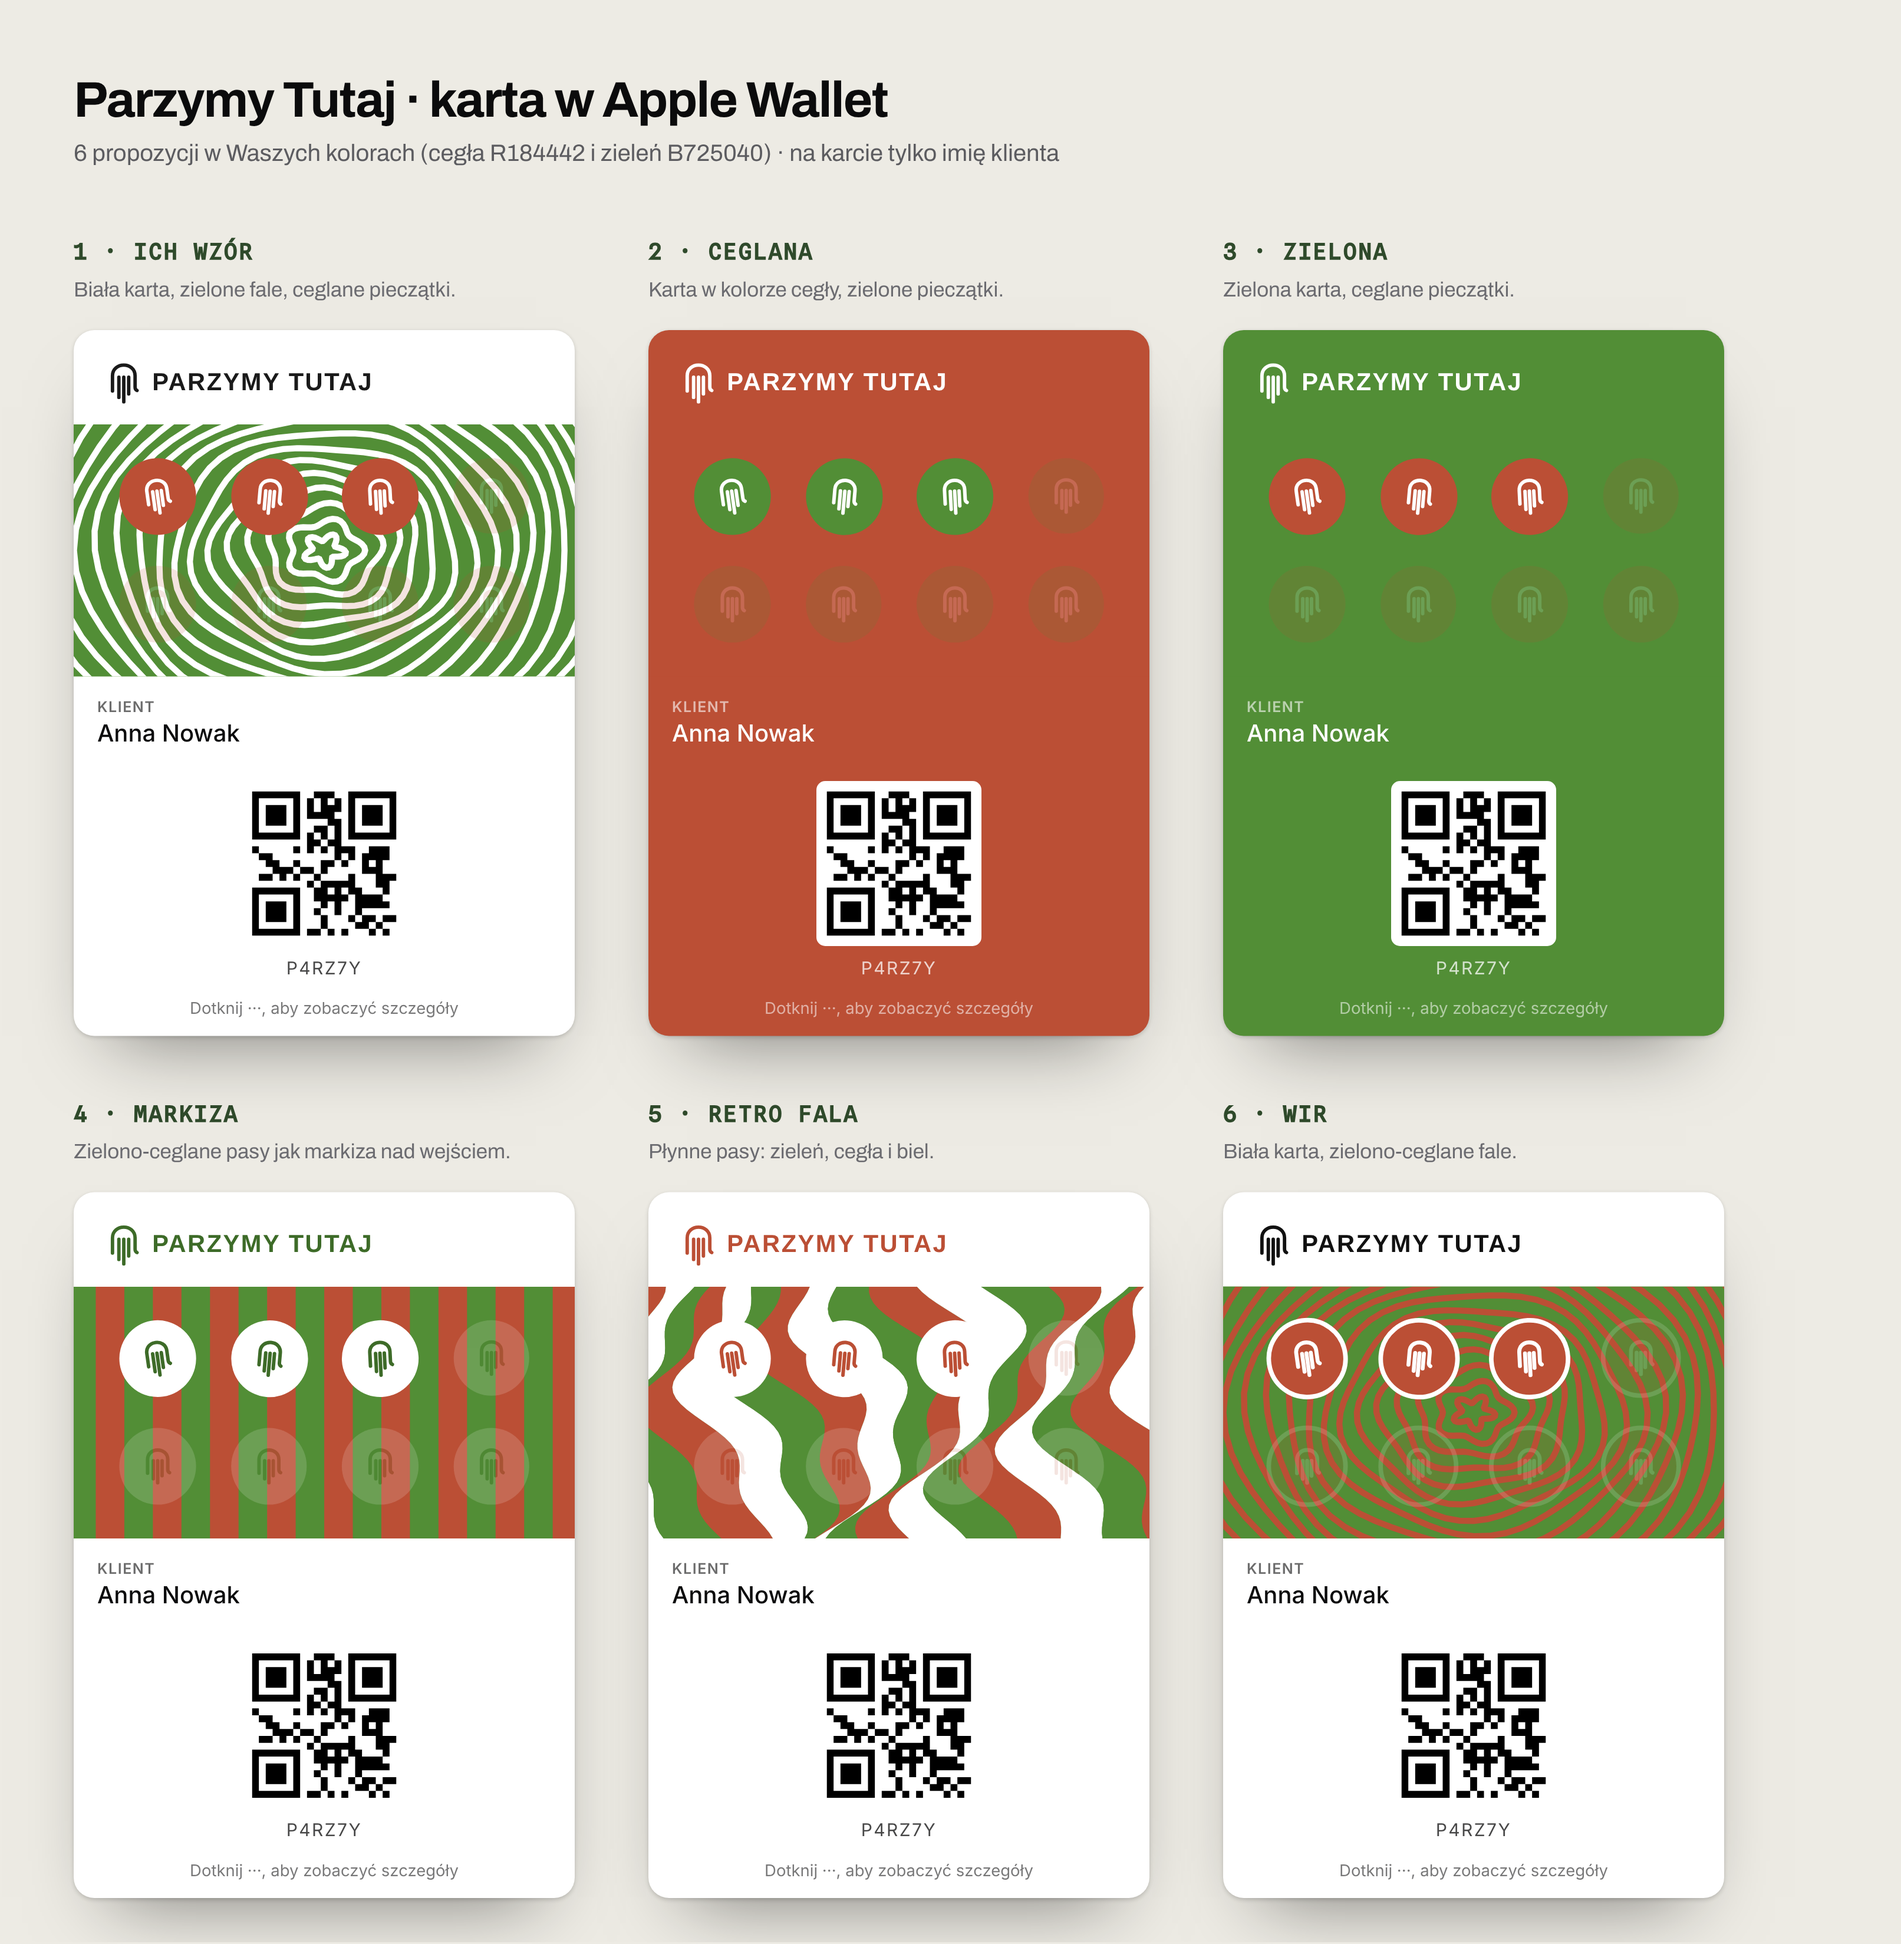
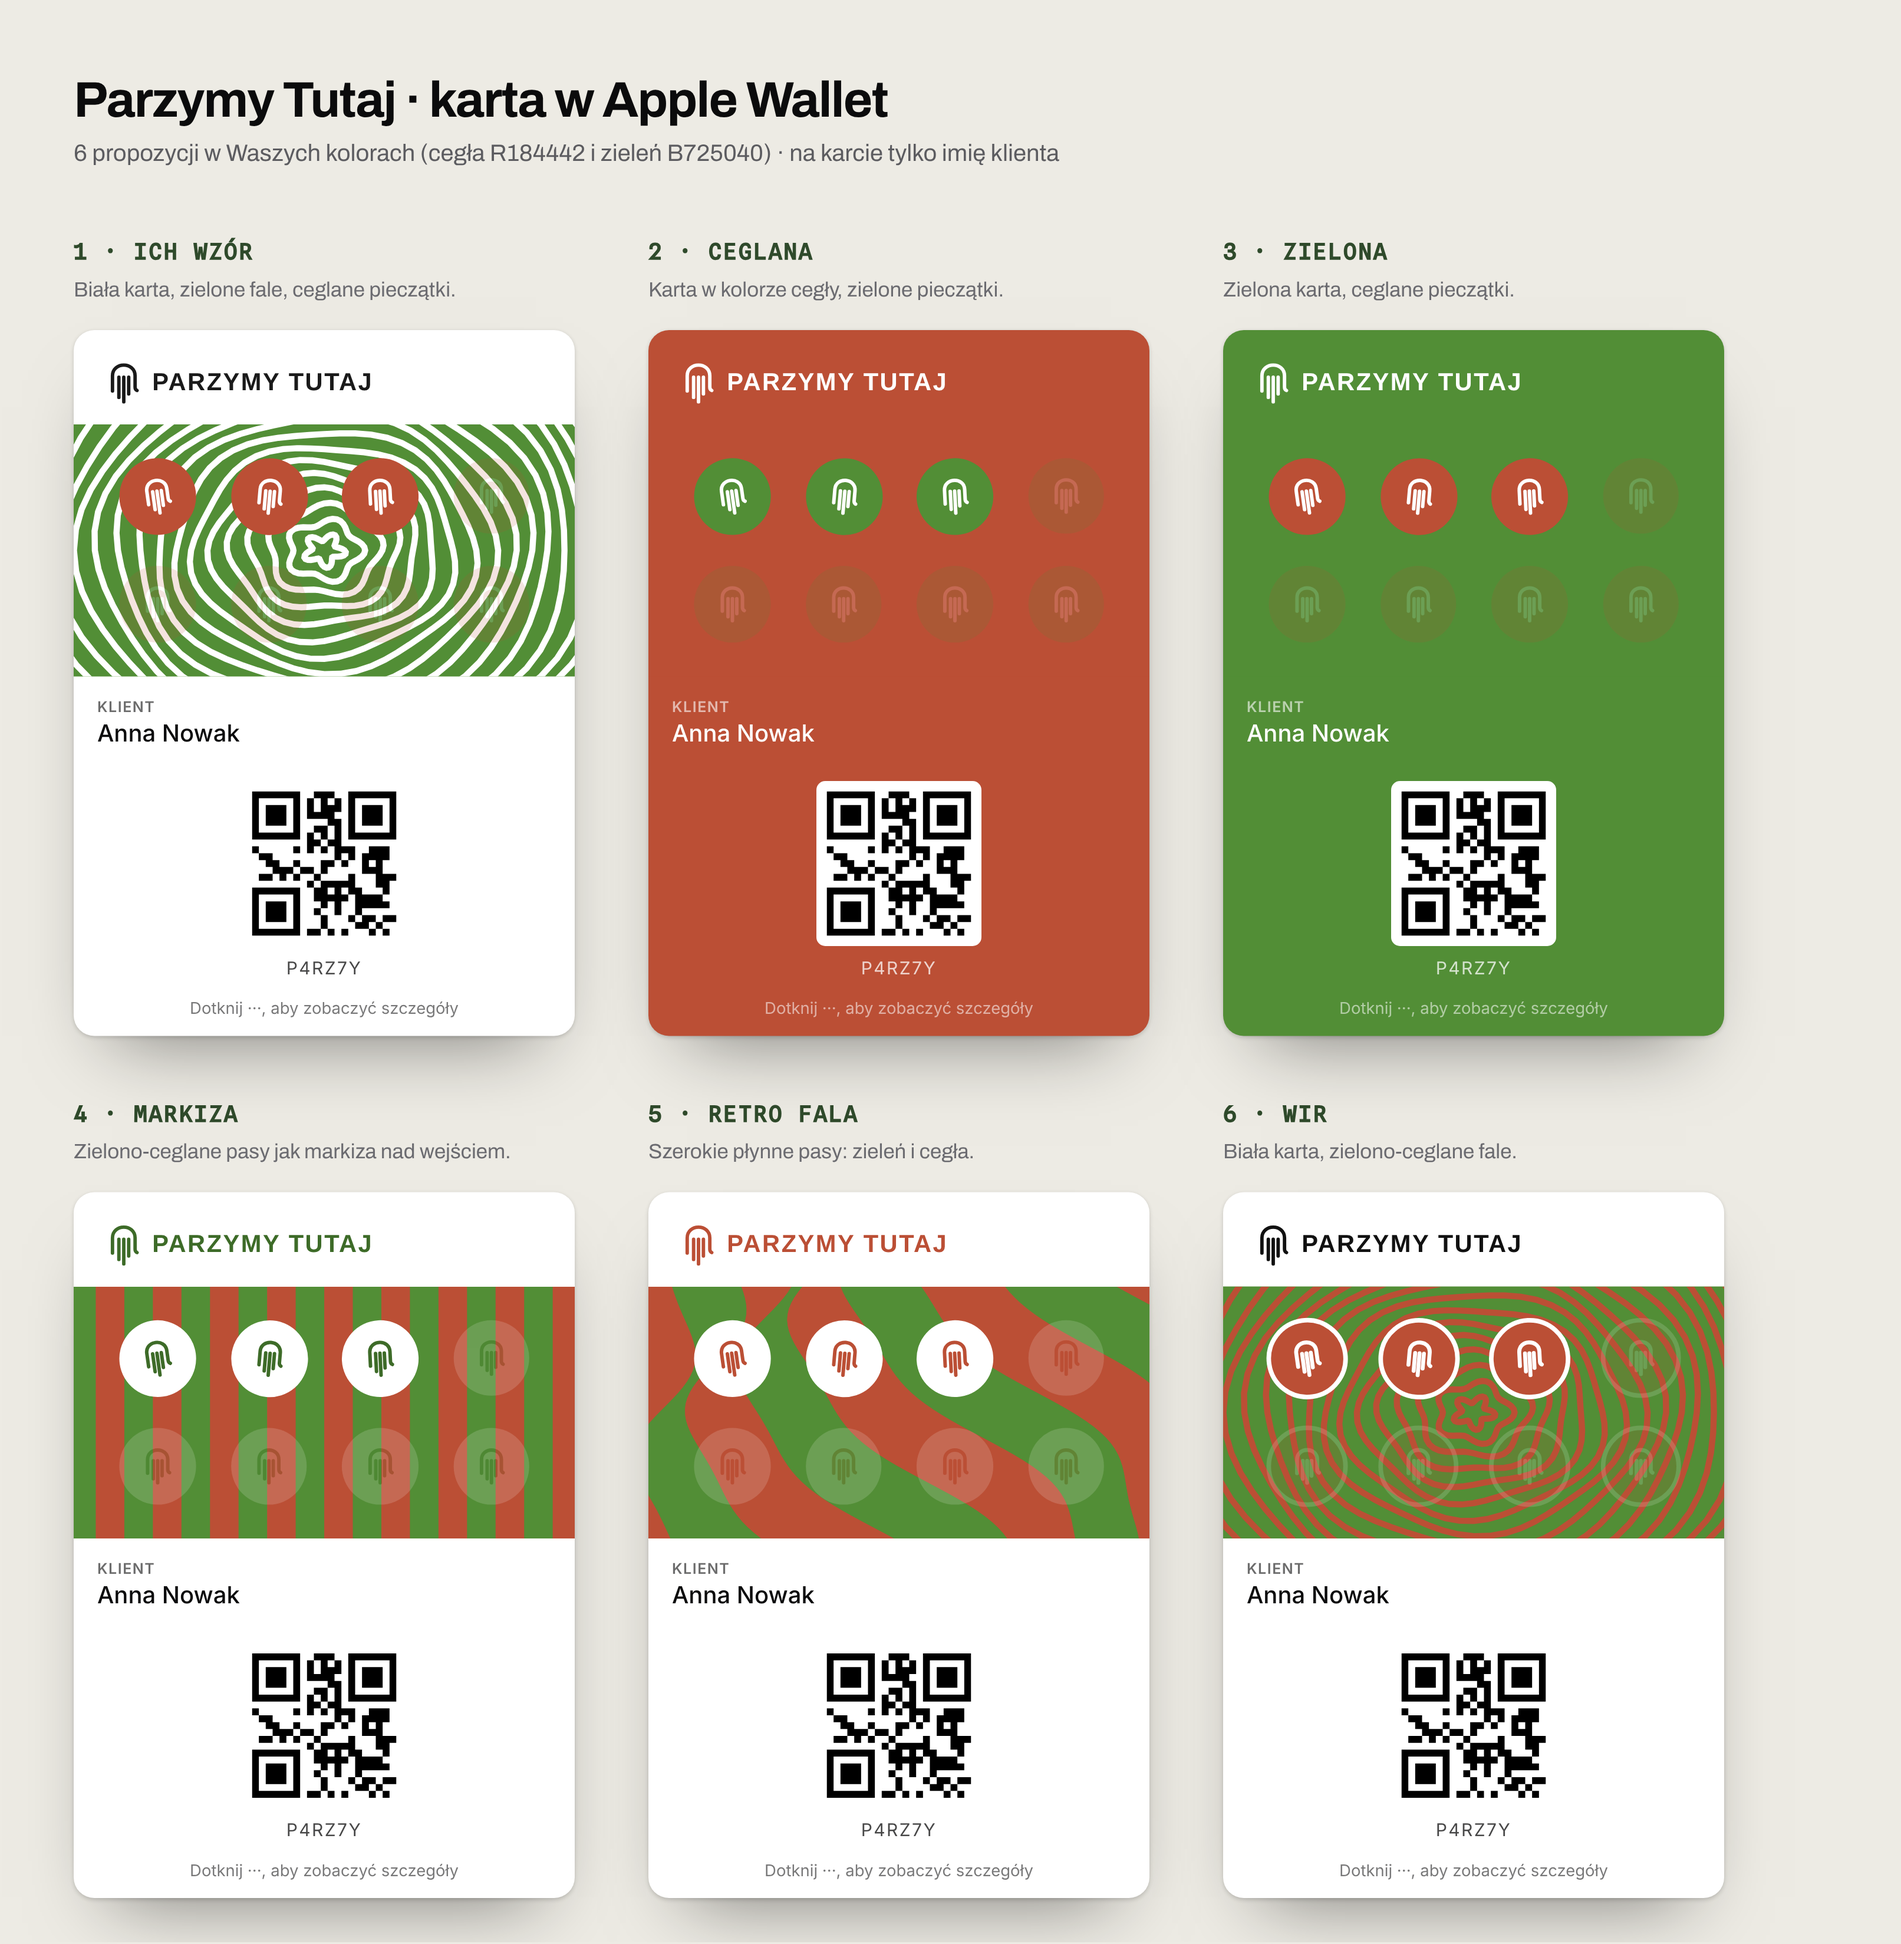
Parzymy options: card 5 wide flowing bands in green and brick only
Claude-Session: https://claude.ai/code/session_01P7jvwC9jL6ipCqqXJiCoo9

Changed region(s): [[0.3411, 0.6559, 0.6202, 0.812]]

diff --git a/print/parzymy-options.html b/print/parzymy-options.html
@@ -92,6 +92,13 @@ body{margin:0;background:#EDEBE4}
     }
     return svgUrl(`<svg xmlns="http://www.w3.org/2000/svg" viewBox="0 0 1020 450"><rect width="1020" height="450" fill="${colors[0]}"/>${p}</svg>`);
   };
+  // Wide, slanted flowing bands (like their 70s poster), two colours only.
+  const flow = colors => {
+    let p = '';
+    const edge = k => { let d = ''; for (let y = -30; y <= 480; y += 10) { const x = k * 130 - 260 + y * .45 + 120 * Math.sin(y / 120 + k * .7) + 18 * Math.sin(y / 40 + k * 2); d += `${d ? 'L' : 'M'}${x.toFixed(1)},${y}`; } return d; };
+    for (let k = 0; k < 14; k++) { const a = edge(k), b = edge(k + 1).split('L').reverse().join('L').replace(/^M/, ''); p += `<path d="${a}L${b}Z" fill="${colors[k % colors.length]}"/>`; }
+    return svgUrl(`<svg xmlns="http://www.w3.org/2000/svg" viewBox="0 0 1020 450"><rect width="1020" height="450" fill="${colors[1]}"/>${p}</svg>`);
+  };
   // Sun rays from below, like an old café sign.
   const rays = (bg, ray) => { let p = ''; for (let i = 0; i < 18; i++) { const a1 = Math.PI + i * Math.PI / 18, a2 = a1 + Math.PI / 36; p += `<path d="M510 520 L${510 + 900 * Math.cos(a1)} ${520 + 900 * Math.sin(a1)} L${510 + 900 * Math.cos(a2)} ${520 + 900 * Math.sin(a2)} Z" fill="${ray}"/>`; } return svgUrl(`<svg xmlns="http://www.w3.org/2000/svg" viewBox="0 0 1020 450"><rect width="1020" height="450" fill="${bg}"/>${p}<circle cx="510" cy="520" r="150" fill="${bg}"/></svg>`); };
   const mk = (fill, ink) => disc(fill, `<g transform="translate(26 22) scale(.48)">${markG(ink, 8)}</g>`);
@@ -103,7 +110,7 @@ body{margin:0;background:#EDEBE4}
     ['2 · Ceglana', 'Karta w kolorze cegły, zielone pieczątki.', { ...BASE, color: R, ink: W, strip: R, logo: caps(W), stripImage: plain(R), stampImage: mk(G, W) }],
     ['3 · Zielona', 'Zielona karta, ceglane pieczątki.', { ...BASE, color: G, ink: W, strip: G, logo: caps(W), stripImage: plain(G), stampImage: mk(R, W) }],
     ['4 · Markiza', 'Zielono-ceglane pasy jak markiza nad wejściem.', { ...BASE, color: W, ink: '#1A1A1A', strip: W, logo: caps(GR[700]), stripImage: awning(G, R), stampImage: mk(W, GR[700]) }],
-    ['5 · Retro fala', 'Płynne pasy: zieleń, cegła i biel.', { ...BASE, color: W, ink: '#1A1A1A', strip: W, logo: caps(R), stripImage: liquid([G, R, W, G, R, W]), stampImage: mk(W, R) }],
+    ['5 · Retro fala', 'Szerokie płynne pasy: zieleń i cegła.', { ...BASE, color: W, ink: '#1A1A1A', strip: W, logo: caps(R), stripImage: flow([G, R]), stampImage: mk(W, R) }],
     ['6 · Wir', 'Biała karta, zielono-ceglane fale.', { ...BASE, color: W, ink: '#1A1A1A', strip: G, logo: caps('#111111'), stripImage: swirl(G, R), stampImage: svgUrl(`<svg xmlns="http://www.w3.org/2000/svg" viewBox="0 0 100 100"><circle cx="50" cy="50" r="42" fill="${R}" stroke="${W}" stroke-width="5"/><g transform="translate(26 22) scale(.48)">${markG(W, 9)}</g></svg>`) }]
   ];
   const who = { id: 'P4RZ7Y', name: 'Anna Nowak', stamps: 3 };
